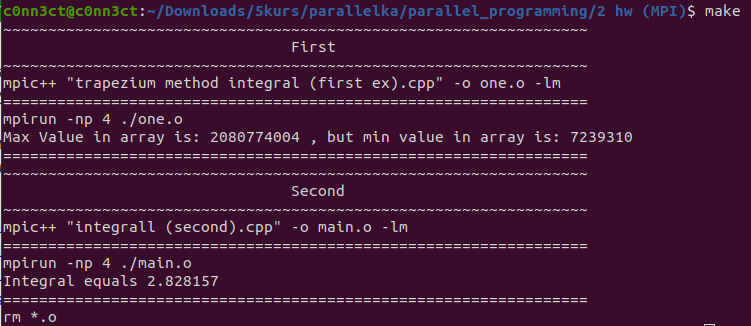
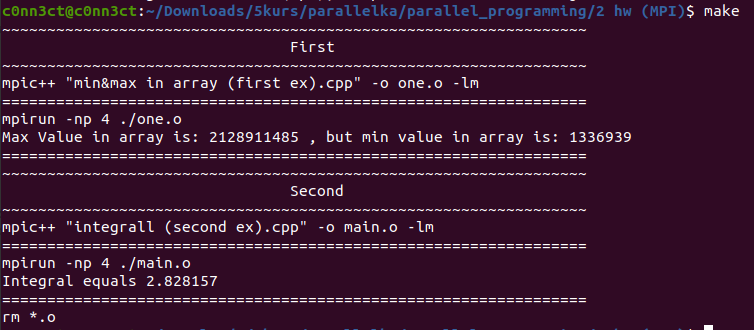
Edit

Changed region(s): [[0.0, 0.0, 1.0, 0.4908], [0.0, 0.5215, 0.7963, 1.0], [0.9188, 0.9816, 0.9494, 1.0]]

diff --git a/2 hw (MPI)/README.md b/2 hw (MPI)/README.md
@@ -7,6 +7,7 @@ Parallel programming
 
 Задание 1: 
 Задача поиска максимального и минимального значений для заданного набора числовых данных
+
 Задание 2: 
 Интегрование
 (Я сделал метод трапеции)
@@ -24,5 +25,6 @@ make
 
 ![result](src/result.png)
 
-[Задание 1]()
-[Задание 2]()
+[Задание 1](https://github.com/disc0nn3ct/parallel_programming/blob/main/2%20hw%20(MPI)/min%26max%20in%20array%20(first%20ex).cpp)
+
+[Задание 2](https://github.com/disc0nn3ct/parallel_programming/blob/main/2%20hw%20(MPI)/integrall%20(second%20ex).cpp)
